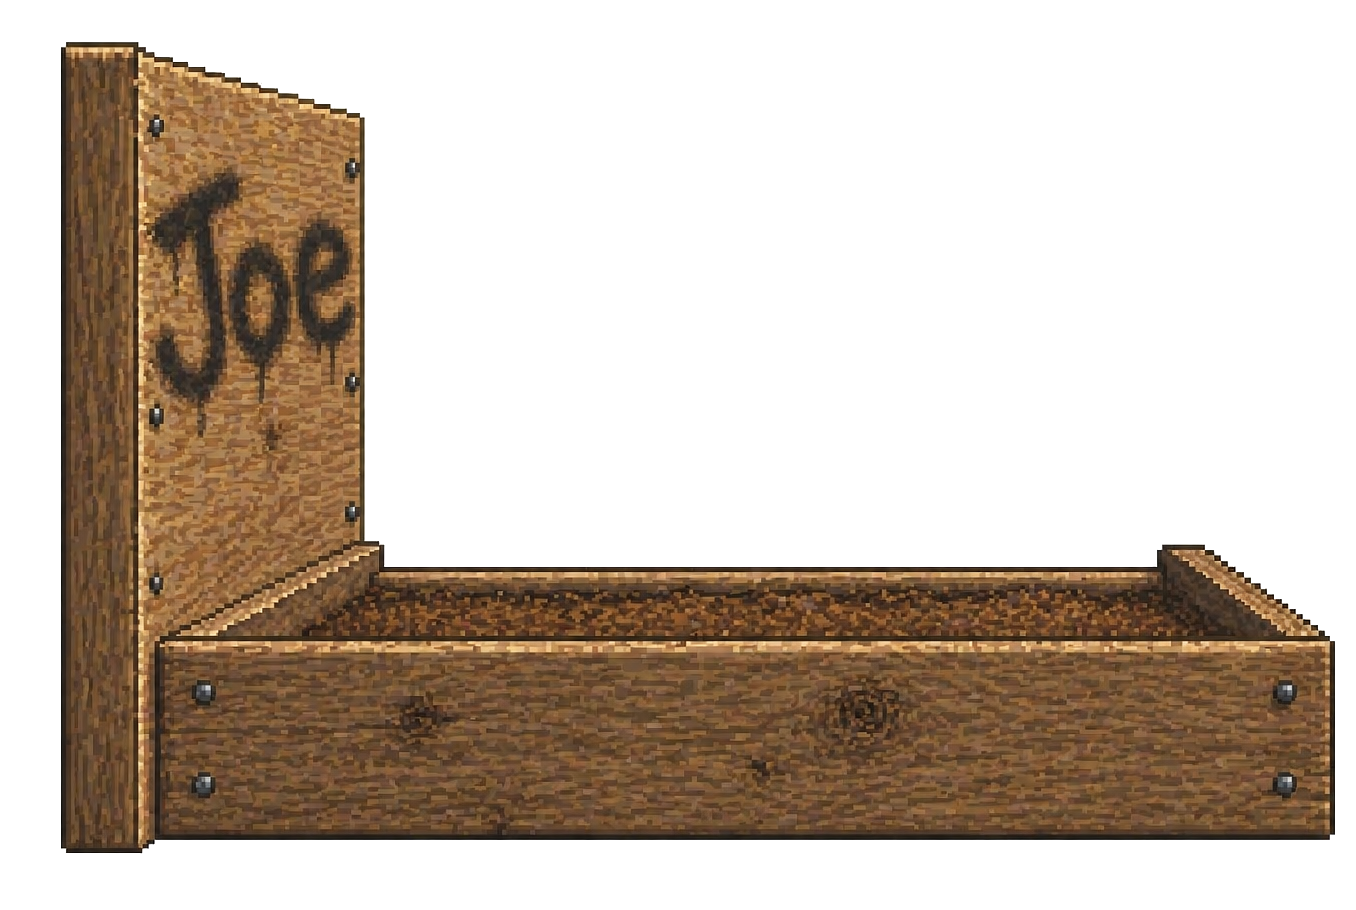
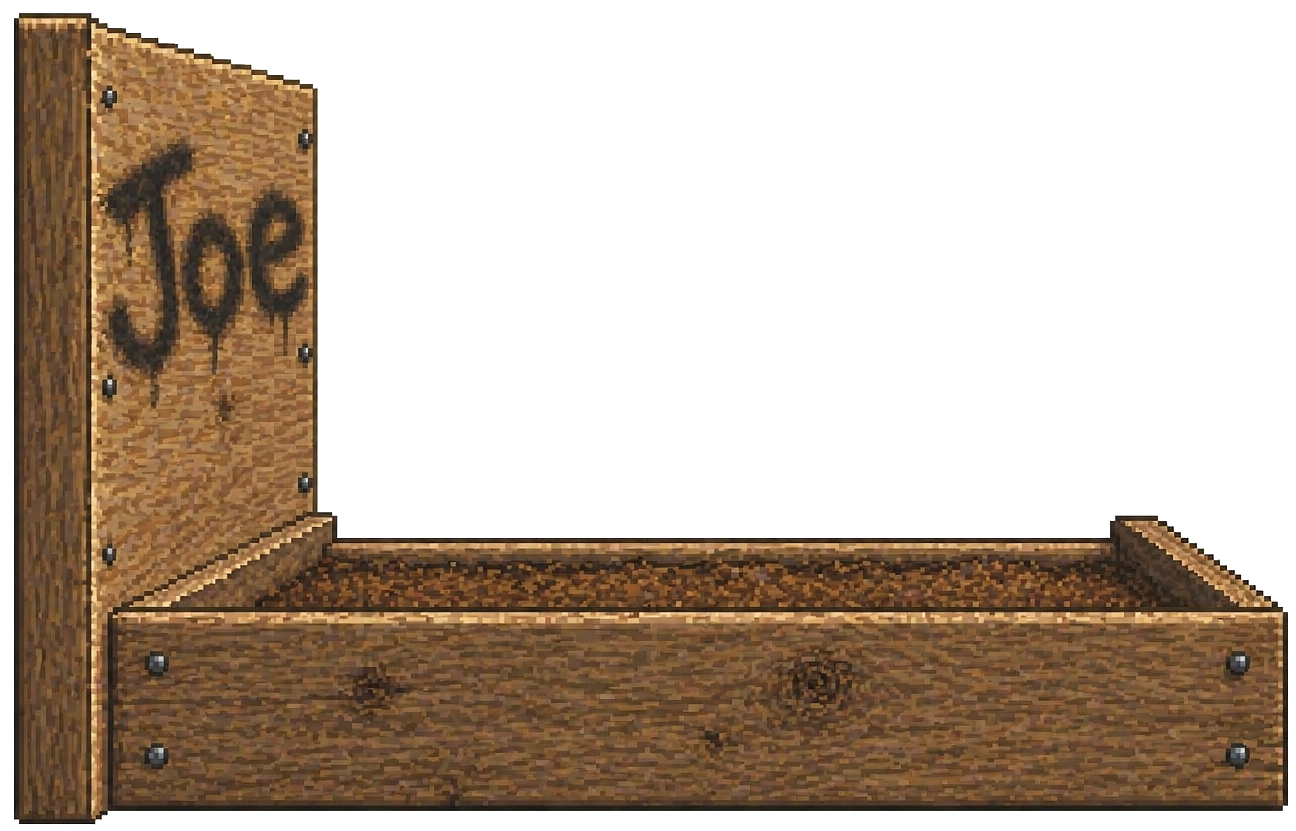
Update cropped pit rendering

diff --git a/index.html b/index.html
@@ -27,22 +27,13 @@
     characterReady = true;
   };
 
-  const pitBackImg = new Image();
-  const pitFrontImg = new Image();
+  const pitImg = new Image();
   const pitLeftImg = new Image();
   let pitReady = false;
-  let pitBackReady = false;
-  let pitFrontReady = false;
   let pitLeftReady = false;
-  function onPitLayerLoad() {
-    pitReady = pitBackReady && pitFrontReady;
-    if (pitReady && canvas.width > 0) updateLayout();
-  }
-  pitBackImg.onload = () => { pitBackReady = true; onPitLayerLoad(); };
-  pitFrontImg.onload = () => { pitFrontReady = true; onPitLayerLoad(); };
+  pitImg.onload = () => { pitReady = true; if (canvas.width > 0) updateLayout(); };
   pitLeftImg.onload = () => { pitLeftReady = true; if (canvas.width > 0) updateLayout(); };
-  pitBackImg.src = 'assets/pit-back.png';
-  pitFrontImg.src = 'assets/pit-front.png';
+  pitImg.src = 'assets/pit.png';
   pitLeftImg.src = 'assets/pit-left.png';
 
   const dustPuffImg = new Image();
@@ -154,7 +145,10 @@
   const DUST_PUFF_DURATION = 250;
   const DUST_PUFF_W = 54;
   const DUST_PUFF_H = 27;
-  const PIT_LANDING_VISUAL_ASSET_OFFSET = 270;
+  const PIT_LANDING_VISUAL_ASSET_OFFSET_RIGHT = 291;
+  const PIT_LANDING_VISUAL_ASSET_OFFSET_LEFT = 293;
+  const PIT_FRONT_OVERLAY_ASSET_OFFSET_RIGHT = 228;
+  const PIT_FRONT_OVERLAY_ASSET_OFFSET_LEFT = 219;
   const USERNAME_KEY = 'shoveltoss.username';
   const GLOBAL_SCORE_LIMIT = 100;
   const HIGH_SCORE_BADGE = '👑';
@@ -264,7 +258,15 @@
   }
 
   function getActivePitImg() {
-    return isLilItalyLevel() ? pitLeftImg : pitBackImg;
+    return isLilItalyLevel() ? pitLeftImg : pitImg;
+  }
+
+  function getPitLandingAssetOffset() {
+    return isLilItalyLevel() ? PIT_LANDING_VISUAL_ASSET_OFFSET_LEFT : PIT_LANDING_VISUAL_ASSET_OFFSET_RIGHT;
+  }
+
+  function getPitFrontOverlayAssetOffset() {
+    return isLilItalyLevel() ? PIT_FRONT_OVERLAY_ASSET_OFFSET_LEFT : PIT_FRONT_OVERLAY_ASSET_OFFSET_RIGHT;
   }
 
   function updateLayout() {
@@ -272,7 +274,8 @@
     canvas.height = window.innerHeight;
 
     safeTop  = Math.max(20, canvas.height * 0.04);
-    groundY  = canvas.height * 0.82;
+    const isLandscape = canvas.width > canvas.height;
+    groundY  = canvas.height * (isLilItalyLevel() && isLandscape ? 0.96 : 0.82);
     wallTopY = groundY - canvas.height * WALL_HEIGHT_FRACTION;
     playerX  = canvas.width * (isLilItalyLevel() ? 0.90 : 0.10);
     playerY  = groundY;
@@ -558,7 +561,7 @@
     if (!isPitReady()) return 0;
     const pitImg = getActivePitImg();
     const pitScale = (isLilItalyLevel() ? pitRight : canvas.width - pitLeft) / pitImg.naturalWidth;
-    return PIT_LANDING_VISUAL_ASSET_OFFSET * pitScale;
+    return getPitLandingAssetOffset() * pitScale;
   }
 
   // --- Input ---
@@ -937,15 +940,34 @@
     }
   }
 
-  function drawPitLayer(img) {
-    const drawImg = isLilItalyLevel() ? pitLeftImg : img;
+  function getPitDrawRect() {
+    const drawImg = getActivePitImg();
     const dW = isLilItalyLevel() ? pitRight : canvas.width - pitLeft;
     const dH = dW * drawImg.naturalHeight / drawImg.naturalWidth;
-    if (isLilItalyLevel()) {
-      ctx.drawImage(drawImg, 0, groundY - dH, dW, dH);
-    } else {
-      ctx.drawImage(drawImg, pitLeft, groundY - dH, dW, dH);
-    }
+    return {
+      img: drawImg,
+      x: isLilItalyLevel() ? 0 : pitLeft,
+      y: groundY - dH,
+      w: dW,
+      h: dH
+    };
+  }
+
+  function drawPitLayer() {
+    const rect = getPitDrawRect();
+    ctx.drawImage(rect.img, rect.x, rect.y, rect.w, rect.h);
+  }
+
+  function drawPitFrontOverlay() {
+    const rect = getPitDrawRect();
+    const frontAssetH = getPitFrontOverlayAssetOffset();
+    const overlayH = frontAssetH * (rect.w / rect.img.naturalWidth);
+    ctx.save();
+    ctx.beginPath();
+    ctx.rect(rect.x, rect.y + rect.h - overlayH, rect.w, overlayH);
+    ctx.clip();
+    ctx.drawImage(rect.img, rect.x, rect.y, rect.w, rect.h);
+    ctx.restore();
   }
 
   function drawPitFallback() {
@@ -984,7 +1006,7 @@
 
     // Pit back
     if (isPitReady()) {
-      drawPitLayer(pitBackImg);
+      drawPitLayer();
     } else {
       drawPitFallback();
     }
@@ -1044,8 +1066,8 @@
     }
 
     // Pit front rim
-    if (pitReady && !isLilItalyLevel()) {
-      drawPitLayer(pitFrontImg);
+    if (isPitReady()) {
+      drawPitFrontOverlay();
     }
 
     drawDustPuff();
